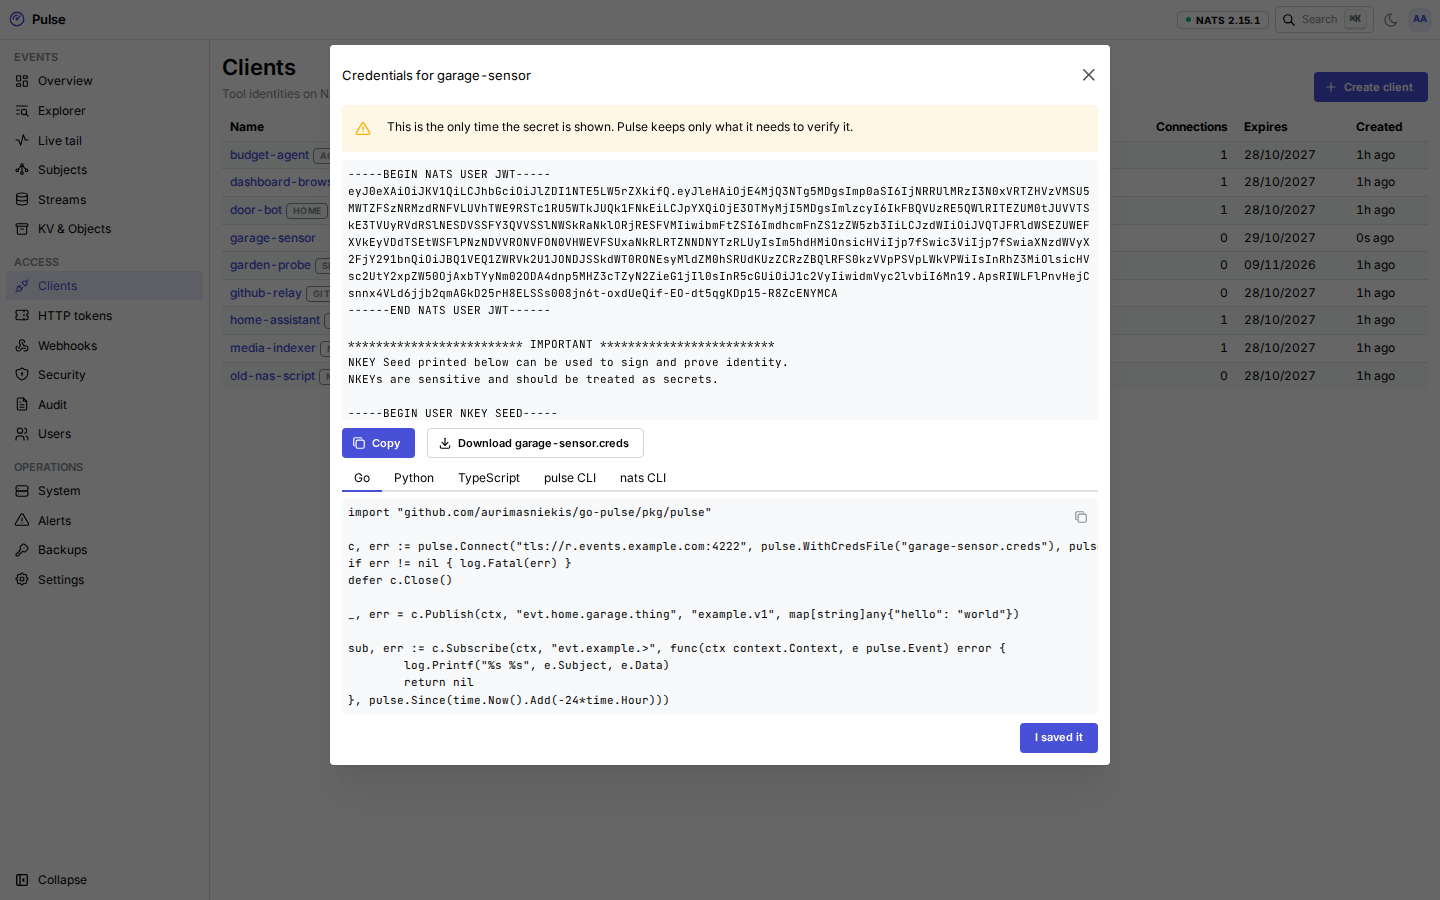
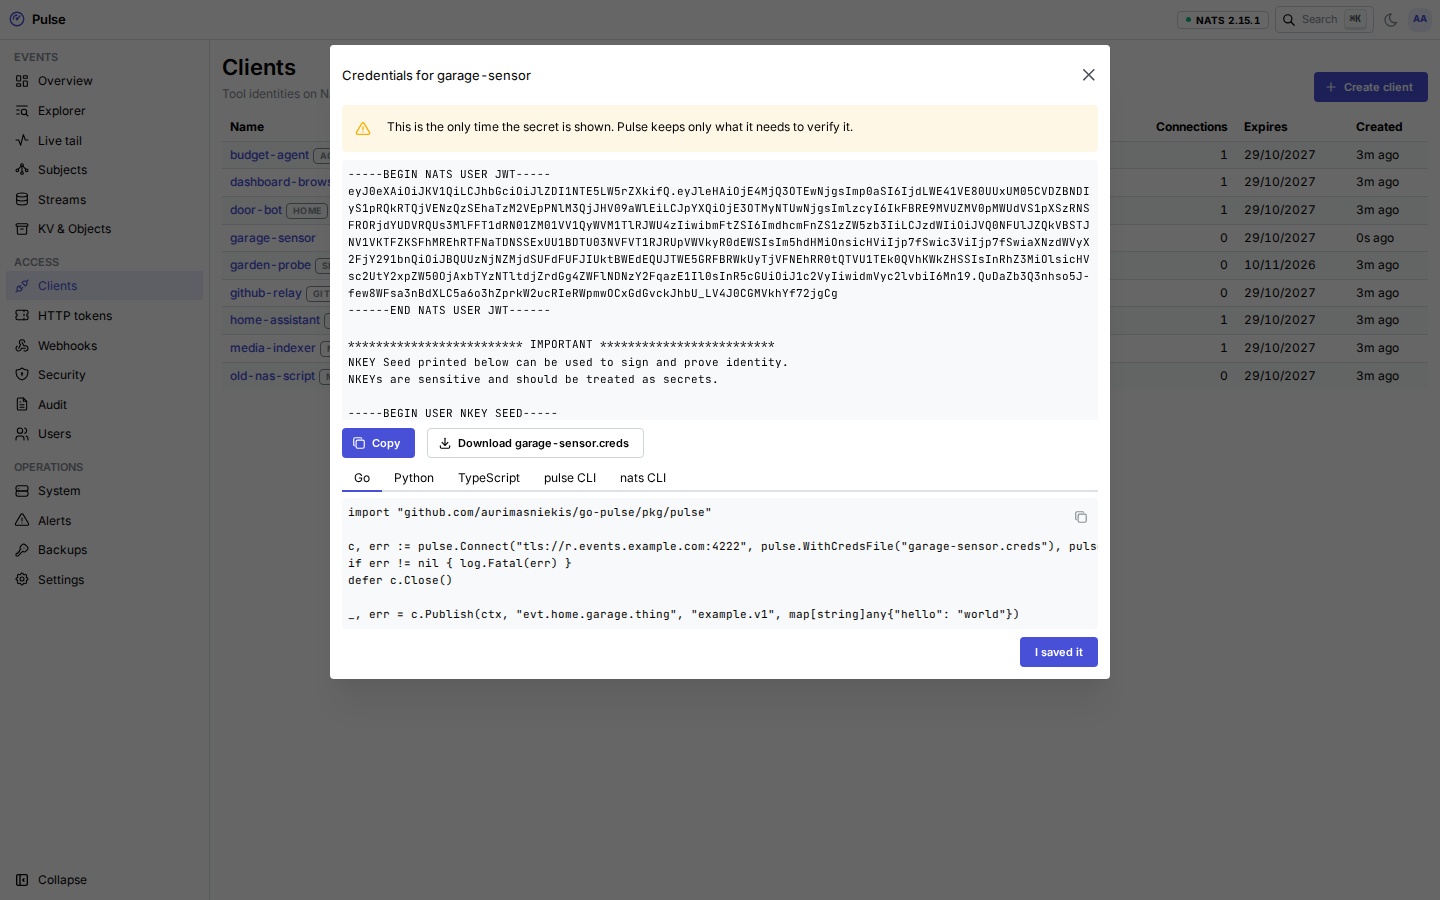
docs: changelog and screenshots for the event size, snippet and audit fixes

diff --git a/CHANGELOG.md b/CHANGELOG.md
@@ -8,6 +8,14 @@ versioning: [docs/VERSIONING.md](docs/VERSIONING.md).
 ### Fixed
 - The System page and a client's page show each connection's round-trip time in milliseconds, like the NATS card,
   instead of the raw NATS value (`1.371958ms` next to `910µs`).
+- An event's size is the same everywhere: subject, headers and payload, as in the Explorer list and the rollups. The
+  event detail (`GET /api/admin/v1/events/{stream}/{seq}`) and the live tail (dashboard and `GET /api/v1/tail`)
+  counted only the subject and payload.
+- Connection snippets for a new client or HTTP token show only what its grants allow. A client without a subscribe
+  grant no longer gets a subscribe example on `evt.example.>`, a client with only a durable grant gets a durable
+  subscription, and a token gets only the publish, replay and tail examples its grants allow.
+- The Audit page shows the whole actor (it was cut off at about 20 characters, such as `user:alex@example.c`); long
+  values are truncated with the full text on hover.
 
 ## [0.1.3] - 2026-10-26
 
